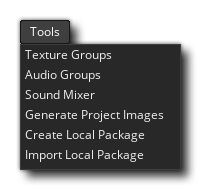
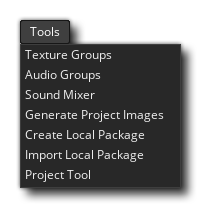
[Feature]ProjectTool: Expose the tool to end users and document it, so they are more aware of Version Format changes YoYoGames/YoYoStudio#9313 * Added ProjectTool page * General Preferences:   * Added Show Project Tool Output & Enable Verbose Logging   * Placed list items in the right order * Added 

Changed region(s): [[0.0896, 0.1842, 0.9552, 0.9211], [0.0896, 0.0789, 0.3881, 0.2368]]

diff --git a/Manual/contents/IDE_Navigation/Menus/The_File_Menu.htm b/Manual/contents/IDE_Navigation/Menus/The_File_Menu.htm
@@ -18,28 +18,28 @@
   <p><img alt="The File Menu" class="center" src="../../assets/Images/IDE_Input/File_Menu.png" /></p>
   <p>The file menu is where you can choose to change, save or import projects as well as set the <span data-keyref="GameMaker Name">GameMaker</span> IDE preferences. The available options are:</p>
   <ul class="colour">
-    <li><strong>New Project </strong>- This is for creating a new project from scratch in <span data-keyref="GameMaker Name">GameMaker</span>. It will open the &quot;Save&quot; dialogue and prompt you to choose a location to save the new project to. Once you have given a name to the project and a location to save it, you will be taken to a new, blank, <a href="../../Introduction/Workspaces.htm">workspace</a> to start working on it. Project files are saved with the <span class="inline">*.yyp</span> file extension.</li>
-    <li><strong>Open Project</strong> - This will open a file explorer for you to select a previously created <span class="inline">*<span data-keyref="Const_ExportProject_Extension">.yyz</span></span> project file for loading. Please note that on import, if the project was created using a version lower than 2.3.0, then you will get the following warning message: <img alt="Open old project warning message" class="center" src="../../assets/Images/IDE_Input/Open_OldProject_Warning.png" /> If you choose to proceed then a file explorer will be opened and you can give the project an updated name and location to save it, so the original project will not be over-written. Once the project has been converted to the new 2.3.0+ format, it will open in the IDE and you will get a message saying that the conversion has succeeded. You should proceed to check the compatibility report that has been generated by the conversion process and see if there is anything that you need to fix before trying to run or compile the project. Note that if you get repeated errors while trying to open a project made with a version anterior to 2.3.0, then you should contact <span data-keyref="Company Name">YoYo Games</span> (using the &quot;Report a bug&quot; option from the <a href="The_Help_Menu.htm">Help Menu</a>), supplying the original <span class="inline">*.yyp</span> file that you are trying to convert.</li>
-    <li><strong>Import Project</strong> - Here you can import projects that have previously been exported as a <span class="inline">*<span data-keyref="Const_ExportProject_Extension">.yyz</span></span> archive (see &quot;Export Project&quot;, below), or - if you have a project made with the legacy GameMaker: Studio 1.4 - you can select this option to import either the <span class="inline">*.gmx</span> or the <span class="inline">*.gmz</span> file from that product line. As with opening a project, if the <span class="inline">*<span data-keyref="Const_ExportProject_Extension">.yyz</span></span> was created with a version of <span data-keyref="GameMaker Name">GameMaker</span> prior to the 2.3.0 update, then it will need converting as the project file format changed with that update.</li>
+    <li><strong>New Project </strong>- This option creates a new project from scratch in <span data-keyref="GameMaker Name">GameMaker</span>. It will open the &quot;Save&quot; dialogue and prompt you to choose a location to save the new project to. Once you have given a name to the project and a location to save it, you will be taken to a new, blank, <a href="../../Introduction/Workspaces.htm">workspace</a> to start working on it. Project files are saved with the <strong>*<span data-keyref="Const_Ext_Project">.yyp</span></strong> file extension.</li>
+    <li><strong>Open Project</strong> - This option opens a file explorer for you to select a previously created <span class="inline">*<span data-keyref="Const_Ext_Project">.yyp</span></span> project file for loading. Please note that on import, if the project was created using a version lower than 2.3.0, then you will get the following warning message: <img alt="Open old project warning message" class="center" src="../../assets/Images/IDE_Input/Open_OldProject_Warning.png" /> If you choose to proceed, a file explorer will be opened and you can give the project an updated name and location to save it, so the original project will not be overwritten. Once the project has been converted to the new 2.3.0+ format, it will open in the IDE and you will get a message saying that the conversion has succeeded. You should proceed to check the compatibility report that has been generated by the conversion process and see if there is anything that you need to fix before trying to run or compile the project. Note that if you get repeated errors while trying to open a project made with a version anterior to 2.3.0, then you should contact <span data-keyref="Company Name">YoYo Games</span> (using the <strong>Report a <span data-keyref="GameMaker Name">GameMaker</span> Bug</strong> option from <a data-xref="{title}" href="The_Help_Menu.htm">The Help Menu</a>), supplying the original <span class="inline">*<span data-keyref="Const_Ext_Project">.yyp</span></span> file that you are trying to convert.</li>
+    <li><strong>Import Project</strong> - Here you can import projects that have previously been exported as a <span class="inline">*<span data-keyref="Const_ExportProject_Extension">.yyz</span></span> archive (see <strong>Export Project</strong> below), or - if you have a project made with the legacy GameMaker: Studio 1.4 - you can select this option to import either the <span class="inline">*.gmx</span> or the <span class="inline">*.gmz</span> file from that product line. As with opening a project, if the <span class="inline">*<span data-keyref="Const_ExportProject_Extension">.yyz</span></span> was created with a version of <span data-keyref="GameMaker Name">GameMaker</span> prior to the 2.3.0 update, then it will need converting as the project file format changed with that update.</li>
   </ul>
-  <p class="note"><span data-conref="../../assets/snippets/Tag_note.hts"> </span> To import a previous GameMaker project into <span data-keyref="GameMaker Name">GameMaker</span> it must have been created using the 1.4 version, and even then it may not work directly on import. A great many things are different between <span data-keyref="GameMaker Name">GameMaker</span> and GameMaker: Studio 1.4, and so your older projects may need some tweaking for them to work. Please see the article <a href="https://help.yoyogames.com/hc/en-us/articles/231719468">Porting A GM:S 1.4 Game To <span data-keyref="GameMaker Name">GameMaker</span></a> on the GameMaker Knowledge Base and the section of the manual that covers <a data-xref="{title}" href="../../Additional_Information/Obsolete_Functions.htm">Obsolete Functions</a> and <a href="../../Additional_Information/Compatibility_Scripts.htm">Compatibility Scripts</a>.</p>
+  <p class="note"><span data-conref="../../assets/snippets/Tag_note.hts"> </span> To import a previous <span data-keyref="GameMaker Name">GameMaker</span> project into <span data-keyref="GameMaker Name">GameMaker</span> it must have been created using the 1.4 version, and even then it may not work directly on import. A great many things are different between <span data-keyref="GameMaker Name">GameMaker</span> and GameMaker: Studio 1.4, and so your older projects may need some tweaking for them to work. Please see the article <a href="https://help.yoyogames.com/hc/en-us/articles/231719468">Porting A GM:S 1.4 Game To <span data-keyref="GameMaker Name">GameMaker</span></a> on the GameMaker Knowledge Base and the section of the manual that covers <a data-xref="{title}" href="../../Additional_Information/Obsolete_Functions.htm">Obsolete Functions</a> and <a data-xref="{title}" href="../../Additional_Information/Compatibility_Scripts.htm">Compatibility Scripts</a>.</p>
   <p class="note"><span data-conref="../../assets/snippets/Tag_important.hts"> </span> Importing a <span class="inline">*<span data-keyref="Const_ExportProject_Extension">.yyz</span></span> project that contains font resources may require you to &quot;regenerate&quot; the fonts by removing/re-adding them, or by changing the font in <a data-xref="{title}" href="../../The_Asset_Editors/Fonts.htm">The Font Editor</a> and then setting it back again. This is because the existing font information is retained by the <span class="inline">*<span data-keyref="Const_ExportProject_Extension">.yyz</span></span> when it is exported, and, on import later or on another machine, the project may not have the required fonts installed already (or may have a different font of the same name). This should only be done if you are seeing issues with how the font renders after import.</p>
   <ul class="colour">
     <li><strong>Recent Projects</strong> - You can use this option to view recently used projects. Selecting it will re-open <a data-xref="{title}" href="../../Introduction/The_Start_Page.htm">The Start Page</a> (should you have closed it) and you can select a recently used project from the list found there.</li>
     <li><strong>Save Project</strong> - This will save your game to the same location as you defined when you created the project (or where you opened it from).</li>
     <li><strong>Save Project As</strong> - Same as above, only you specify the location and the new name of the project.</li>
-    <li><strong><a id="exportproject"></a>Export Project </strong>- This allows you export your project either as a file or as a template:<br />
+    <li><strong><a id="exportproject"></a>Export Project </strong>- This allows you to export your project either as a file or as a template:<br />
       <img class="center" src="../../assets/Images/IDE_Input/File_Menu_Export.png" />
       <ul>
         <li><strong>YYZ</strong> - This will export the project as a single <span class="inline">*<span data-keyref="Const_ExportProject_Extension">.yyz</span></span> file and is very useful for sending copies to people or for saving backups.</li>
         <li><strong>As Template</strong> - This will allow you to export your project as a template, which you can later use as a base for other projects on <a data-xref="{title}" href="../../Introduction/The_Start_Page.htm">The Start Page</a>. Selecting this option will show you the following prompt:<br />
-          <img class="center" src="../../assets/Images/IDE_Input/File_Menu_Export_Prompt.png" />You should first click on &quot;Edit Template Info&quot; to ensure that your <a href="../../Settings/Game_Options/Template_Info.htm">template information</a> is correct, and then select &quot;Export&quot; when you open this prompt a second time to save it as a template. You will then see it under the Template menu on the Start Screen.<br />
+          <img class="center" src="../../assets/Images/IDE_Input/File_Menu_Export_Prompt.png" />You should first click on <strong>Edit Template Info</strong> to ensure that your <a href="../../Settings/Game_Options/Template_Info.htm">template information</a> is correct, and then select <strong>Export</strong> when you open this prompt a second time to save it as a template. You will then see it under the Template menu on the Start Screen.<br />
           <br />
           <span data-conref="../../assets/snippets/Custom_templates_note.hts"> </span>
         </li>
       </ul>
     </li>
-    <li><strong>New IDE</strong> - When you select this a new instance of the IDE will be opened for you to use (it will open on the Start Page).</li>
+    <li><strong>New IDE</strong> - When you select this a new instance of the IDE will be opened for you to use (it will open on <a data-xref="{title}" href="../../Introduction/The_Start_Page.htm">The Start Page</a>).</li>
     <li><strong>Preferences </strong>- Selecting this will take you to the <a href="../../Setting_Up_And_Version_Information/IDE_Preferences.htm">Preferences Window</a> where you can set up how <span data-keyref="GameMaker Name">GameMaker</span> looks and feel.</li>
     <li><strong>Exit </strong>- Exit <span data-keyref="GameMaker Name">GameMaker</span> to the desktop.</li>
   </ul>

diff --git a/Manual/contents/Setting_Up_And_Version_Information/IDE_Preferences/General_Preferences.htm b/Manual/contents/Setting_Up_And_Version_Information/IDE_Preferences/General_Preferences.htm
@@ -4,7 +4,7 @@
 <head>
   <meta http-equiv="Content-Type" content="text/html; charset=utf-8" />
   <title>General Preferences</title>
-  <meta name="generator" content="Adobe RoboHelp 2020" />
+  <meta name="generator" content="Adobe RoboHelp 2022" />
   <link rel="stylesheet" href="../../assets/css/default.css" type="text/css" />
   <script src="../../assets/scripts/main_script.js" type="module"></script>
   <meta name="rh-authors" content="Mark Alexander" />
@@ -23,22 +23,24 @@
     <li><strong>IDE Skin</strong>: Here you can select from the different skins that the IDE can use. By default <span data-keyref="GameMaker Name">GameMaker</span> comes with two skins, one light and one dark, and the initial setup uses the <strong>Dark</strong> skin.</li>
     <li><strong>Default Build Target</strong>: This is the default build <a href="../../Introduction/Compiling.htm">target</a> to use for projects. The default is <strong>GX.games</strong>.</li>
     <li><strong>Default Audio Device</strong>: Here you can choose the default audio device for the <span data-keyref="GameMaker Name">GameMaker</span> IDE to use. You can refresh the list by clicking the Refresh Button  <img alt="Refresh Button Icon" class="icon" src="../../assets/Images/Icons/Icon_Refresh.png" />.</li>
-    <li><strong>Automatic Response to Exit Confirmation</strong>: This option permits you to set whether a confirmation message should be shown when you exit <span data-keyref="GameMaker Name">GameMaker</span>. By default this is set to <strong>Show Message</strong>, but can be set to skip the message as if you&#39;d clicked OK.</li>
     <li><strong>Automatic Response to The System Font Changed Dialog</strong>: This option permits you to set whether a confirmation message should be shown when a system font has been added, removed or edited. By default this is set to <strong>Show Message</strong>, but can be set to skip the message as if you&#39;d clicked OK.</li>
+    <li><strong>Automatic Response to Exit Confirmation</strong>: This option permits you to set whether a confirmation message should be shown when you exit <span data-keyref="GameMaker Name">GameMaker</span>. By default this is set to <strong>Show Message</strong>, but can be set to skip the message as if you&#39;d clicked OK.</li>
     <li><strong>Enable notifications</strong>: Checking this will enable the IDE to show notifications about new runtimes, etc. This is on by default.</li>
     <li><strong>Notification timeout (ms)</strong>: This sets the length of time (in milliseconds) that a notification is shown for. Default is 6000.</li>
     <li><strong>Sign out on exit</strong>: If this option is checked then the IDE will automatically log out the user session when <span data-keyref="GameMaker Name">GameMaker</span> is closed. This is primarily aimed at Education users, as - when checked - this means that whenever the program shuts down the user would be logged out and so free up the session seat for other users to use. This is off by default.</li>
+    <li><strong>Disable IDE transition animations</strong>: The <span data-keyref="GameMaker Name">GameMaker</span> IDE has a number of animated transitions for things like opening windows, etc. However, they are not to everyone&#39;s taste and you may experience a performance boost if they are disabled on older or under-powered machines if they are disabled. You can disable them here, and they are on by default.</li>
     <li><strong>Allow empty tabs to be closed via the keyboard shortcut</strong>: You can close any open Tabs using the keyboard shortcut <img alt="Icon CTRL" class="icon" height="20" src="../../assets/Images/Icons/Icon_Ctrl.png" width="55" /> / <img alt="Icon CMD" class="icon" height="20" src="../../assets/Images/Icons/Icon_Cmd.png" width="55" /> + <strong>W</strong>, but if you disable this option that shortcut will no longer work. This is enabled by default.</li>
     <li><strong>Open new assets for edit on dragging files into IDE</strong>: Certain assets (like sprites or sounds) can be dragged onto the main Workspace in the <span data-keyref="GameMaker Name">GameMaker</span> IDE and will be detected and added as a new asset in <a data-xref="{title}" href="../../Introduction/The_Asset_Browser.htm">The Asset Browser</a>. By default the corresponding asset editor will also be opened for editing when this happens, but un-checking this option will prevent the editors from being opened and you will be required to open them manually.</li>
-    <li><strong>Use US Date Format</strong>: This setting changes the format used to display dates in the IDE. When enabled, dates are displayed as e.g. &quot;Thursday, April 27, 2023&quot;, when disabled, dates are displayed as e.g. &quot;27 April 2023&quot; instead. By default this preference is unchecked.</li>
     <li><strong>Open new assets for edit on creation</strong>: If this is checked, every time you create a new resource in <a data-xref="{title}" href="../../Introduction/The_Asset_Browser.htm">The Asset Browser</a>, the corresponding asset editor will be opened automatically. This is checked by default and un-checking it will mean that you have to manually open all newly created assets.</li>
     <li><strong>Automatically reload changed files</strong>: If this is checked, the IDE will automatically scan and check files to see if any of them have been changed outside of <span data-keyref="GameMaker Name">GameMaker</span> and reload them if they have.</li>
     <li><strong>Case-Insensitive mode for project files (may affect performance)</strong>: Intended to be used to avoid issues with filename case sensitivity on non-Windows devices (macOS and Linux). Such issues can happen when transferring projects from Windows to non-Windows systems, using Git with <a href="https://git-scm.com/docs/git-config#Documentation/git-config.txt-coreignoreCase">ignore case</a> enabled (which you should try disabling first) and/or renaming files only to change the case. This is disabled by default as it&#39;s a performance overhead and should not be required outside of the aforementioned cases.</li>
-    <li><strong>Disable IDE transition animations</strong>: The <span data-keyref="GameMaker Name">GameMaker</span> IDE has a number of animated transitions for things like opening windows etc... however they are not to everyone&#39;s taste and you may experience a performance boost if they are disabled on older or under-powered machines if they are disabled. You can disable them here, and they are on by default.</li>
+    <li><strong>Enable Verbose Logging</strong> - This option enables verbose logging of network calls.</li>
+    <li><strong>Show Project Tool Output</strong> - When this option is checked, the <a data-xref="{text}" href="../../IDE_Tools/Project_Tool.htm#h">ProjectTool Output</a> window will be shown when you convert projects with <a data-xref="{title}" href="../../IDE_Tools/Project_Tool.htm">ProjectTool</a>.</li>
     <li><strong>Enable DPI Override</strong>: This option lets you override the default DPI setting with your own. You must first enable the option and then set either the <strong>Raw DPi Override</strong> value (the default value is 96) or set the <strong>Percentage of the native DPi</strong> (default value 100%), and once changed you will be prompted to restart the IDE, which may require you to save any work being done on the currently open project. Note that the DPi has a minimum percentage of 50% and a maximum of 500%, and if you you mouse over the information icon you can see the recommended maximum setting for the display being used:<br />
       <br />
       <img alt="General DPi Override Recommendation" class="center" src="../../assets/Images/Setup_And_Version/Preferences/General_DPi_Override_Recomendation.png" />Note that if you go above the recommended DPi setting for the monitor, you will be shown a notification that permits you to reset the DPI.
     </li>
+    <li><strong>Use US Date Format</strong>: This setting changes the format used to display dates in the IDE. When enabled, dates are displayed as e.g. &quot;Thursday, April 27, 2023&quot;, when disabled, dates are displayed as e.g. &quot;27 April 2023&quot; instead. By default this preference is unchecked.</li>
   </ul>
   <p>The options above are the main options available from the <strong>General </strong>preferences, but there are a number of extra options available to you in the sub-categories listed below:</p>
   <ul class="colour">

diff --git a/Manual/contents/IDE_Tools/Project_Tool.htm b/Manual/contents/IDE_Tools/Project_Tool.htm
@@ -1,0 +1,54 @@
+<?xml version="1.0" encoding="utf-8" ?>
+<!DOCTYPE html>
+<html xmlns="http://www.w3.org/1999/xhtml">
+<head>
+  <meta http-equiv="Content-Type" content="text/html; charset=utf-8" />
+  <meta name="generator" content="Adobe RoboHelp 2022" />
+  <title>ProjectTool</title>
+  <meta name="topic-status" content="Draft" />
+  <link rel="stylesheet" type="text/css" href="../assets/css/default.css" />
+  <meta name="template" content="../assets/masterpages/Manual_Page.htt" />
+  <meta name="search-keywords" content="project,tool,project tool" />
+  <meta name="rh-index-keywords" content="Project Tool" />
+</head>
+<body>
+  <h1><span data-field="title" data-format="default">ProjectTool</span></h1>
+  <p><span data-field="title" data-format="default">ProjectTool</span> is a built-in tool to convert projects between different versions of <span data-keyref="GameMaker Name">GameMaker</span>.</p>
+  <p>It is used by <span data-keyref="GameMaker Name">GameMaker</span> internally to convert projects from older project formats to the current format and the other way round.</p>
+  <p>It is accessible from the IDE through <a data-xref="{title}" href="../IDE_Navigation/Menus/The_Tools_Menu.htm">The Tools Menu</a> &gt; <strong>Project Tool</strong> option.</p>
+  <p class="note"><span data-conref="../assets/snippets/Tag_note.hts"> </span> See the <a data-xref="{title}" href="../Additional_Information/Project_Format.htm">Project Format</a> page for details on the current project format.</p>
+  <p><img alt="Project Tool" class="center" height="263" src="../assets/Images/IDE Tools/Project_Tool.png" style="cursor: nesw-resize;" width="550" /></p>
+  <p>The tool window contains the following fields: </p>
+  <ul class="colour">
+    <li><strong>Source</strong> - This field contains the path to the source project or package file to convert. Paste a valid file path here or click the <img class="icon" height="24" src="../assets/Images/IDE Tools/Project_Tool_Select_File.png" width="24" /> button to bring up a file selector.</li>
+    <li><strong>Destination</strong> - This field contains the path to the destination project to create. Paste a valid path here or click the <img class="icon" height="24" src="../assets/Images/IDE Tools/Project_Tool_Select_File.png" width="24" /> button to bring up a file selector. This- field can be empty when the source project is a <span data-keyref="Const_Ext_Project">.yyp</span> file, in which case <span data-field="title" data-format="default">ProjectTool</span> does an in-place conversion (i.e. it converts the project in the source directory). It must be filled out, however, when the source project is a package file. <span data-field="title" data-format="default">ProjectTool</span> shows the following message if you attempt to convert a package with an empty destination path: <img alt="No Destination Project Selected" class="center" src="../assets/Images/IDE Tools/Project_Tool_No_Destination_Selected.png" /></li>
+    <li><strong>Project Format</strong> - This drop-down list contains the available project formats that you can convert to. The following formats are available: 
+      <ul>
+        <li><strong>LTS22</strong> - This is the project format used by the LTS release.</li>
+        <li><strong>NOV23</strong> - This is the project format used by the Nov23 release.</li>
+        <li><strong>DEFAULT</strong> - This is the default, versioned project format.</li>
+      </ul>
+    </li>
+    <li><strong>Force VERS0 Conversion if required</strong> - When this checkbox is enabled, <span data-field="title" data-format="default">ProjectTool</span> forces a conversion to the intermediary base version 0 format in a last attempt to fix any issues with your project. The VERS0 format is a format to facilitate conversion between the NOV23 format and the versioned DEFAULT format.<br />
+      <br />
+      <span data-conref="../assets/snippets/Tag_warning.hts"> </span> You should be very careful with enabling this option, as it will make a best guess to missing fields and strip out any unknown data.
+    </li>
+    <li><strong>Clean Conversion Folders</strong> - When this checkbox is ticked, <span data-field="title" data-format="default">ProjectTool</span> cleans up the conversion folders after conversion. This is enabled by default.</li>
+  </ul>
+  <h2 id="h"><span data-field="title" data-format="default">ProjectTool</span> Output</h2>
+  <p>All <span data-field="title" data-format="default">ProjectTool</span> output is shown in the Project Tool Window, that you can open manually through the <strong>Project Tool Output</strong> option of <a data-xref="{title}" href="../IDE_Navigation/Menus/The_Windows_Menu.htm">The Windows Menu</a>. It can also automatically be shown when <span data-field="title" data-format="default">ProjectTool</span> runs by enabling <strong>Show Project Tool Output</strong> in the <a data-xref="{title}" href="../Setting_Up_And_Version_Information/IDE_Preferences/General_Preferences.htm">General Preferences</a>.</p>
+  <p><img alt="Project Tool Output" class="center" src="../assets/Images/IDE Tools/Project_Tool_Output.png" /></p>
+  <p> </p>
+  <p> </p>
+  <p> </p>
+  <div class="footer">
+    <div class="buttons">
+      <div class="clear">
+        <div>Back: <a data-xref="{title}" href="Additional_IDE_Tools.htm">Additional IDE Tools</a></div>
+        <div>Next: <a data-xref="{title}" href="The_Debugger.htm">The Debugger</a></div>
+      </div>
+    </div>
+    <h5><span data-conref="../assets/snippets/Copyright_Notice_AutoUpdate.hts"> </span></h5>
+  </div>
+</body>
+</html>

diff --git a/Manual/contents/IDE_Navigation/Menus/The_Tools_Menu.htm b/Manual/contents/IDE_Navigation/Menus/The_Tools_Menu.htm
@@ -4,7 +4,7 @@
 <head>
   <meta http-equiv="Content-Type" content="text/html; charset=utf-8" />
   <title>The Tools Menu</title>
-  <meta name="generator" content="Adobe RoboHelp 2019" />
+  <meta name="generator" content="Adobe RoboHelp 2022" />
   <link rel="stylesheet" href="../../assets/css/default.css" type="text/css" />
   <script src="../../assets/scripts/main_script.js" type="module"></script>
   <meta name="rh-authors" content="Mark Alexander" />
@@ -16,15 +16,15 @@
   <!--<div class="body-scroll" style="top: 150px;">-->
   <h1>The Tools Menu</h1>
   <p><img alt="The Tools Menu" class="center" src="../../assets/Images/IDE_Input/Tools_Menu.png" /></p>
-  <p>This menu permits you to open the various stand alone tools that are available to you within <span data-keyref="GameMaker Name">GameMaker</span>, with the following options:</p>
+  <p>This menu permits you to open the various stand-alone tools that are available to you within <span data-keyref="GameMaker Name">GameMaker</span>, with the following options:</p>
   <ul class="colour">
-    <li><strong>Texture Groups</strong> - View the <a href="../../Settings/Texture_Groups.htm">Texture Group</a> window.</li>
-    <li><strong>Audio Groups</strong> - View the <a href="../../Settings/Audio_Groups.htm">Audio Group</a> window.</li>
-    <li><strong>Sound Mixer</strong> - View the <a href="../../IDE_Tools/Sound_Mixer.htm">Sound Mixer</a> window.</li>
-    <li><strong>Generate Project Images</strong> - Opens the <a href="../../IDE_Tools/Project_Image_Generator.htm">Generate Project Images</a> window.</li>
-    <li><strong>Create Local Package</strong> - Opens the <a href="../../IDE_Tools/Local_Asset_Packages.htm">Asset Packager</a> window, so you can make and save local asset packages for future use.</li>
-    <li><strong>Import Local Package</strong> - Opens a file explorer window where you can then select a <a href="../../IDE_Tools/Local_Asset_Packages.htm">Local Asset Package</a> and import it, either adding it to the current project, or creating a new project
-      for it.</li>
+    <li><strong>Texture Groups</strong> - This opens the <a data-xref="{title}" href="../../Settings/Texture_Groups.htm">Texture Groups</a> window.</li>
+    <li><strong>Audio Groups</strong> - This lets you view the <a data-xref="{title}" href="../../Settings/Audio_Groups.htm">Audio Groups</a> window.</li>
+    <li><strong>Sound Mixer</strong> - This lets you view the <a data-xref="{title}" href="../../IDE_Tools/Sound_Mixer.htm">Sound Mixer</a> window.</li>
+    <li><strong>Generate Project Images</strong> - This opens the <a href="../../IDE_Tools/Project_Image_Generator.htm">Generate Project Images</a> window.</li>
+    <li><strong>Create Local Package</strong> - This opens the <a href="../../IDE_Tools/Local_Asset_Packages.htm">Asset Packager</a> window, so you can make and save local asset packages for future use.</li>
+    <li><strong>Import Local Package</strong> - This opens a file explorer window where you can then select a <a href="../../IDE_Tools/Local_Asset_Packages.htm">Local Asset Package</a> and import it, either adding it to the current project, or creating a new project for it.</li>
+    <li><strong>Project Tool</strong> - This opens the <a data-xref="{title}" href="../../IDE_Tools/Project_Tool.htm">ProjectTool</a>, which does all kinds of conversions between current and older <span data-keyref="GameMaker Name">GameMaker</span> project format versions.</li>
   </ul>
   <p> </p>
   <p> </p>
@@ -36,7 +36,7 @@
         <div style="float:right">Next: <a href="The_Marketplace_Menu.htm">The Marketplace Menu</a></div>
       </div>
     </div>
-    <h5><span data-keyref="Copyright Notice">© Copyright YoYo Games Ltd. 2021 All Rights Reserved</span></h5>
+    <h5><span data-keyref="Copyright Notice">© Copyright YoYo Games Ltd. 2023 All Rights Reserved</span></h5>
   </div>
   <!-- KEYWORDS
 The Tools Menu

diff --git a/Manual/contents/IDE_Tools/Additional_IDE_Tools.htm b/Manual/contents/IDE_Tools/Additional_IDE_Tools.htm
@@ -4,7 +4,7 @@
 <head>
   <meta http-equiv="Content-Type" content="text/html; charset=utf-8" />
   <title>Additional IDE Tools</title>
-  <meta name="generator" content="Adobe RoboHelp 2020" />
+  <meta name="generator" content="Adobe RoboHelp 2022" />
   <link rel="stylesheet" href="../assets/css/default.css" type="text/css" />
   <script src="../assets/scripts/main_script.js" type="module"></script>
   <meta name="rh-authors" content="Mark Alexander" />
@@ -14,27 +14,27 @@
 </head>
 <body>
   <!--<div class="body-scroll" style="top: 150px;">-->
-  <h1>Additional IDE Tools</h1>
+  <h1><span data-field="title" data-format="default">Additional IDE Tools</span></h1>
   <p>This section of the manual outlines additional IDE tools that are available to help you make your games and which aren&#39;t covered in other parts of the manual, as well as those tools that are helpful accessories to the other sections of the IDE. </p>
   <ul class="colour">
-    <li><a href="The_Debugger.htm">The Debugger</a></li>
-    <li><a href="The_Micro_Web_Server.htm">The Micro Web Server</a></li>
-    <li><a href="Local_Asset_Packages.htm">Local Asset Packages</a></li>
-    <li><a href="Project_Image_Generator.htm">Project Image Generator</a></li>
-    <li><a href="Sound_Mixer.htm">Sound Mixer</a></li>
-    <li><a href="Source_Control.htm">Source Control</a></li>
+    <li><a data-xref="{title}" href="The_Debugger.htm">The Debugger</a></li>
+    <li><a data-xref="{title}" href="The_Micro_Web_Server.htm">The Micro Web Server</a></li>
+    <li><a data-xref="{title}" href="Local_Asset_Packages.htm">Local Asset Packages</a></li>
+    <li><a data-xref="{title}" href="Project_Image_Generator.htm">Project Image Generator</a></li>
+    <li><a data-xref="{title}" href="Sound_Mixer.htm">Sound Mixer</a></li>
+    <li><a data-xref="{title}" href="Source_Control.htm">Source Control</a></li>
+    <li><a data-xref="{title}" href="Project_Tool.htm">Project Tool</a></li>
   </ul>
-  <p> </p>
   <p> </p>
   <p> </p>
   <div class="footer">
     <div class="buttons">
       <div class="clear">
         <div style="float:left">Back: <a href="../The_IDE/The_IDE.htm">The IDE</a></div>
-        <div style="float:right">Next: <a data-xref="{title}" href="../Settings/Game_Settings.htm">Game Settings</a></div>
+        <div style="float:right">Next: <a data-xref="{title}" href="../Settings/Game_Settings.htm">GameMaker Runner</a></div>
       </div>
     </div>
-    <h5><span data-keyref="Copyright Notice">© Copyright YoYo Games Ltd. 2022 All Rights Reserved</span></h5>
+    <h5><span data-keyref="Copyright Notice">© Copyright YoYo Games Ltd. 2023 All Rights Reserved</span></h5>
   </div>
   <!-- KEYWORDS
 Additional IDE Tools
